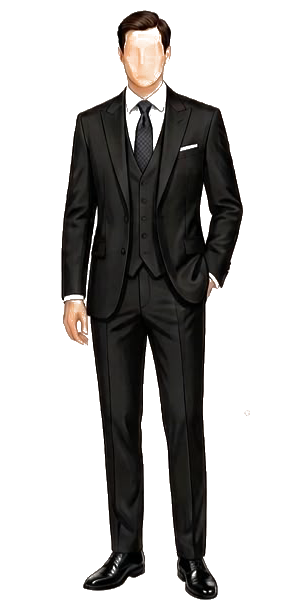
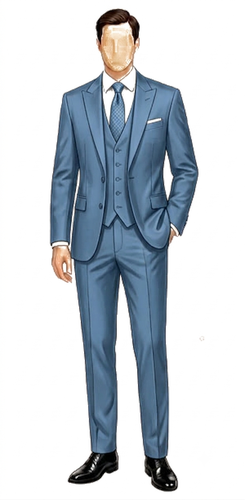
Nuevos dibujos dresscode (azul/beige), fb2 object-position 55%
- caballero.png: traje azul dusty blue (Gemini)
- dama.png: vestido beige claro (Gemini)
- fb2: ajustar encuadre para mostrar más los cuerpos

Changed region(s): [[0.2, 0.06, 0.8286, 0.93]]

diff --git a/index.html b/index.html
@@ -630,7 +630,7 @@ section::before{
 </section>
 
 <div class="foto-band" style="--fb-from:var(--ink);--fb-to:var(--ink)">
-  <img src="fb2.jpg" alt="Guillermo dándole un beso a Ivonne en el bosque" loading="lazy" style="object-position:center 30%">
+  <img src="fb2.jpg" alt="Guillermo dándole un beso a Ivonne en el bosque" loading="lazy" style="object-position:center 55%">
   <div class="foto-band-overlay"></div>
 </div>
 
